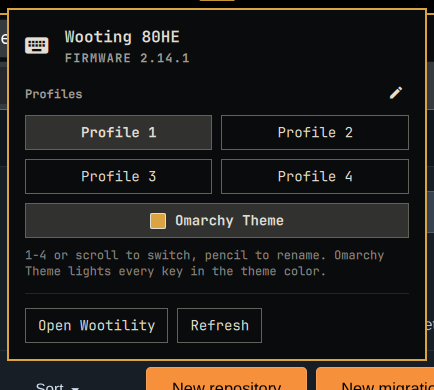
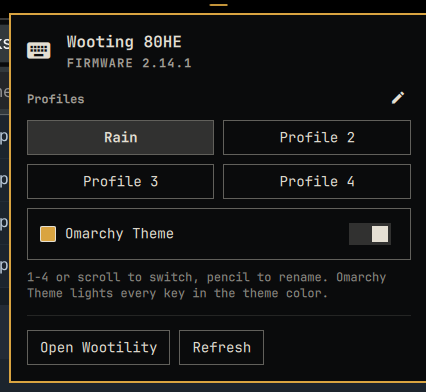
Omarchy Theme row is a switch, not a fifth profile

diff --git a/Panel.qml b/Panel.qml
@@ -275,33 +275,33 @@ Panel {
                         }
                     }
 
-                    // Lighting as one more choice in the same block: every key in the
-                    // theme color, with the color itself shown inside the option.
+                    // Lighting lives in the same block but is a setting, not a fifth
+                    // profile: a switch shows its state, the swatch shows the color.
                     BorderSurface {
                         id: themeOption
                         width: parent.width
                         radius: Style.cornerRadius
                         readonly property bool on: root.themeLighting
                         readonly property bool hot: themeMouse.containsMouse
-                        readonly property color textColor: on ? Style.selectedStateColor(root.foreground, Color.accent) : root.foreground
                         readonly property var hoverSpec: Border.controlSpec("hover-cursor", root.foreground, Color.accent)
-                        readonly property var selectedSpec: Border.controlHasWidth("selected")
-                            ? Border.controlSpec("selected", root.foreground, Color.accent)
-                            : Border.controlSpec("normal", root.foreground, Color.accent)
                         readonly property var normalSpec: Border.controlSpec("normal", root.foreground, Color.accent)
-                        readonly property real reservedTop: Math.max(Border.top(hoverSpec), Border.top(selectedSpec), Border.top(normalSpec))
-                        readonly property real reservedBottom: Math.max(Border.bottom(hoverSpec), Border.bottom(selectedSpec), Border.bottom(normalSpec))
-                        implicitHeight: themeRow.implicitHeight + Style.spacing.controlPaddingY * 2 + reservedTop + reservedBottom
-                        borderSpec: hot ? hoverSpec : (on ? selectedSpec : normalSpec)
+                        readonly property real reservedTop: Math.max(Border.top(hoverSpec), Border.top(normalSpec))
+                        readonly property real reservedBottom: Math.max(Border.bottom(hoverSpec), Border.bottom(normalSpec))
+                        readonly property real reservedLeft: Math.max(Border.left(hoverSpec), Border.left(normalSpec))
+                        readonly property real reservedRight: Math.max(Border.right(hoverSpec), Border.right(normalSpec))
+                        implicitHeight: Math.max(themeRow.implicitHeight, themeSwitch.implicitHeight)
+                            + Style.spacing.controlPaddingY * 2 + reservedTop + reservedBottom
+                        borderSpec: hot ? hoverSpec : normalSpec
                         color: themeMouse.pressed ? Style.pressedFillFor(root.foreground, Color.accent)
                             : hot ? Style.hoverFillFor(root.foreground, Color.accent)
-                            : on ? Style.selectedFillFor(root.foreground, Color.accent)
                             : "transparent"
                         Behavior on color { ColorAnimation { duration: 120 } }
 
                         Row {
                             id: themeRow
-                            anchors.centerIn: parent
+                            anchors.left: parent.left
+                            anchors.leftMargin: themeOption.reservedLeft + Style.spacing.controlPaddingX
+                            anchors.verticalCenter: parent.verticalCenter
                             spacing: Style.spacing.controlGap
 
                             Rectangle {
@@ -309,20 +309,31 @@ Panel {
                                 height: width
                                 radius: Math.max(2, Style.cornerRadius / 2)
                                 color: Model.isHexColor(root.themeColor) ? root.themeColor : "transparent"
+                                opacity: themeOption.on ? 1.0 : 0.45
                                 border.width: 1
-                                border.color: themeOption.textColor
+                                border.color: root.foreground
                                 anchors.verticalCenter: parent.verticalCenter
                             }
 
                             Text {
                                 textFormat: Text.PlainText
                                 text: "Omarchy Theme"
-                                color: themeOption.textColor
+                                color: root.foreground
                                 font.family: root.fontFamily
                                 font.pixelSize: Style.font.body
-                                font.bold: themeOption.on
                                 anchors.verticalCenter: parent.verticalCenter
                             }
+                        }
+
+                        ToggleSwitch {
+                            id: themeSwitch
+                            anchors.right: parent.right
+                            anchors.rightMargin: themeOption.reservedRight + Style.spacing.controlPaddingX
+                            anchors.verticalCenter: parent.verticalCenter
+                            checked: themeOption.on
+                            hasCursor: themeOption.hot
+                            foreground: root.foreground
+                            onToggled: root.setThemeLighting(!root.themeLighting)
                         }
 
                         MouseArea {

diff --git a/README.md b/README.md
@@ -10,9 +10,9 @@ keyboards, right in the [Omarchy](https://omarchy.org/) bar.
 - **Panel** switches between the keyboard's onboard profiles (keys 1-4 work too), lets you
   name them (the pencil), shows the model and firmware, and opens Wootility as an app
   window for everything else.
-- **Omarchy Theme**, the full-width option under the profiles, paints every key in the
-  active theme's keyboard color and repaints when you switch themes. Deselect it to hand
-  lighting back to the keyboard's own profile.
+- **Omarchy Theme**, the switch under the profiles, paints every key in the active theme's
+  keyboard color and repaints when you switch themes. Turn it off to hand lighting back to
+  the keyboard's own profile.
 
 No Wootility, no daemon, no build step. The helper is a single Python 3 script that talks
 HID to the keyboard, and Python 3 ships with Omarchy.
@@ -85,7 +85,7 @@ Every Omarchy theme can ship a `keyboard.rgb` file holding one hex color. Hall K
 from the active theme (`~/.local/state/omarchy/current/theme/keyboard.rgb`) and falls back to
 the theme's accent color when a theme has none. With **Omarchy Theme** selected, the whole
 board is set to that color through the keyboard's host lighting mode and repainted after a
-theme switch. Deselecting it returns control to the keyboard's own profile lighting.
+theme switch. Turning it off returns control to the keyboard's own profile lighting.
 Switching profiles while it is selected shows the new profile's own lighting for a moment,
 then the theme color returns. Unplugging the keyboard restores its onboard lighting; Hall
 Keys repaints when it reconnects. **Refresh** re-reads the keyboard and re-applies the color.
@@ -114,8 +114,8 @@ firmware speaks; `probe` dumps the raw replies and the interface's report layout
 omarchy plugin remove io.github.startupfoundry.hall-keys --yes
 ```
 
-If Omarchy Theme was selected, the keyboard keeps the last painted color until it is
-replugged; deselect it first, or run `bin/hall-keys reset`, if you want it back sooner.
+If Omarchy Theme was on, the keyboard keeps the last painted color until it is replugged;
+turn it off first, or run `bin/hall-keys reset`, if you want it back sooner.
 The udev rule is left in place because Wootility benefits from it too. Remove it with
 `sudo rm /etc/udev/rules.d/70-wooting-hidraw-uaccess.rules` if you no longer want it.
 
